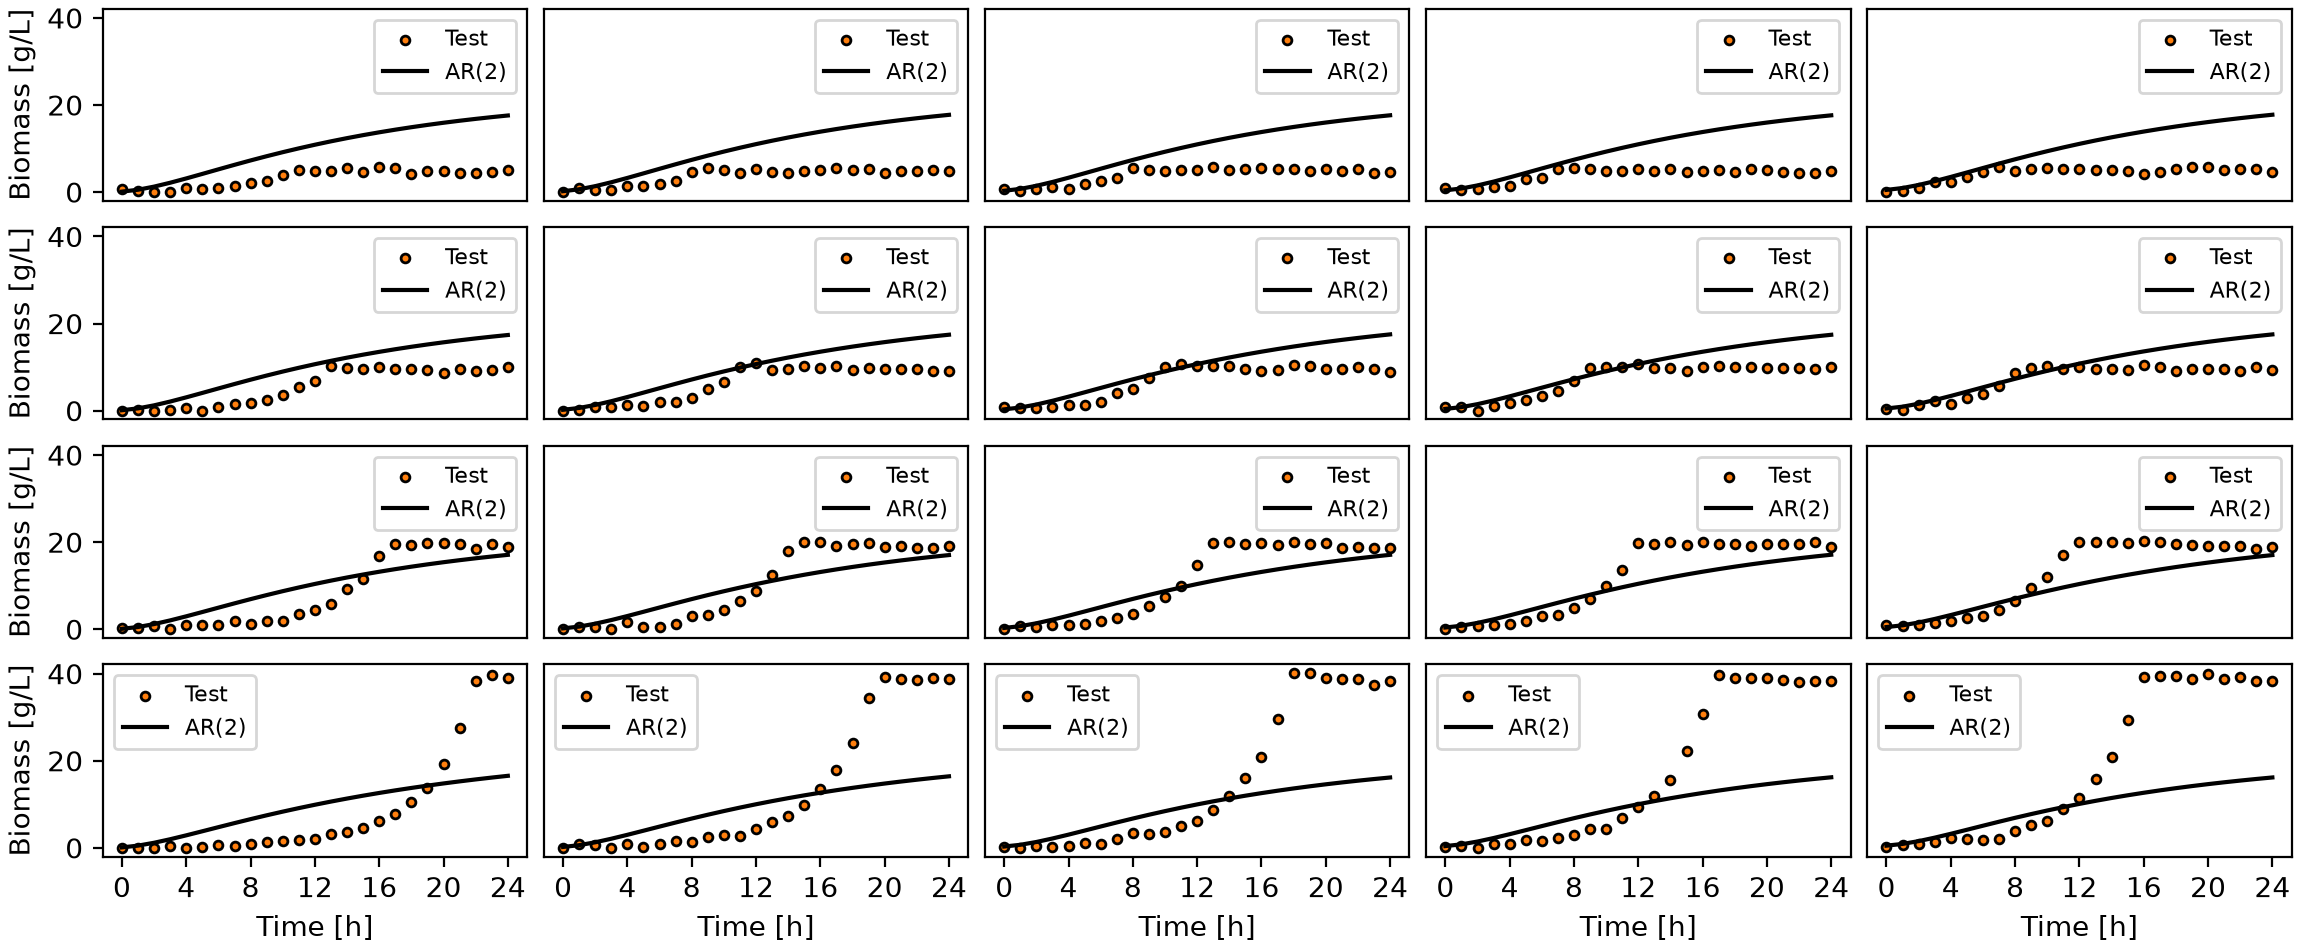
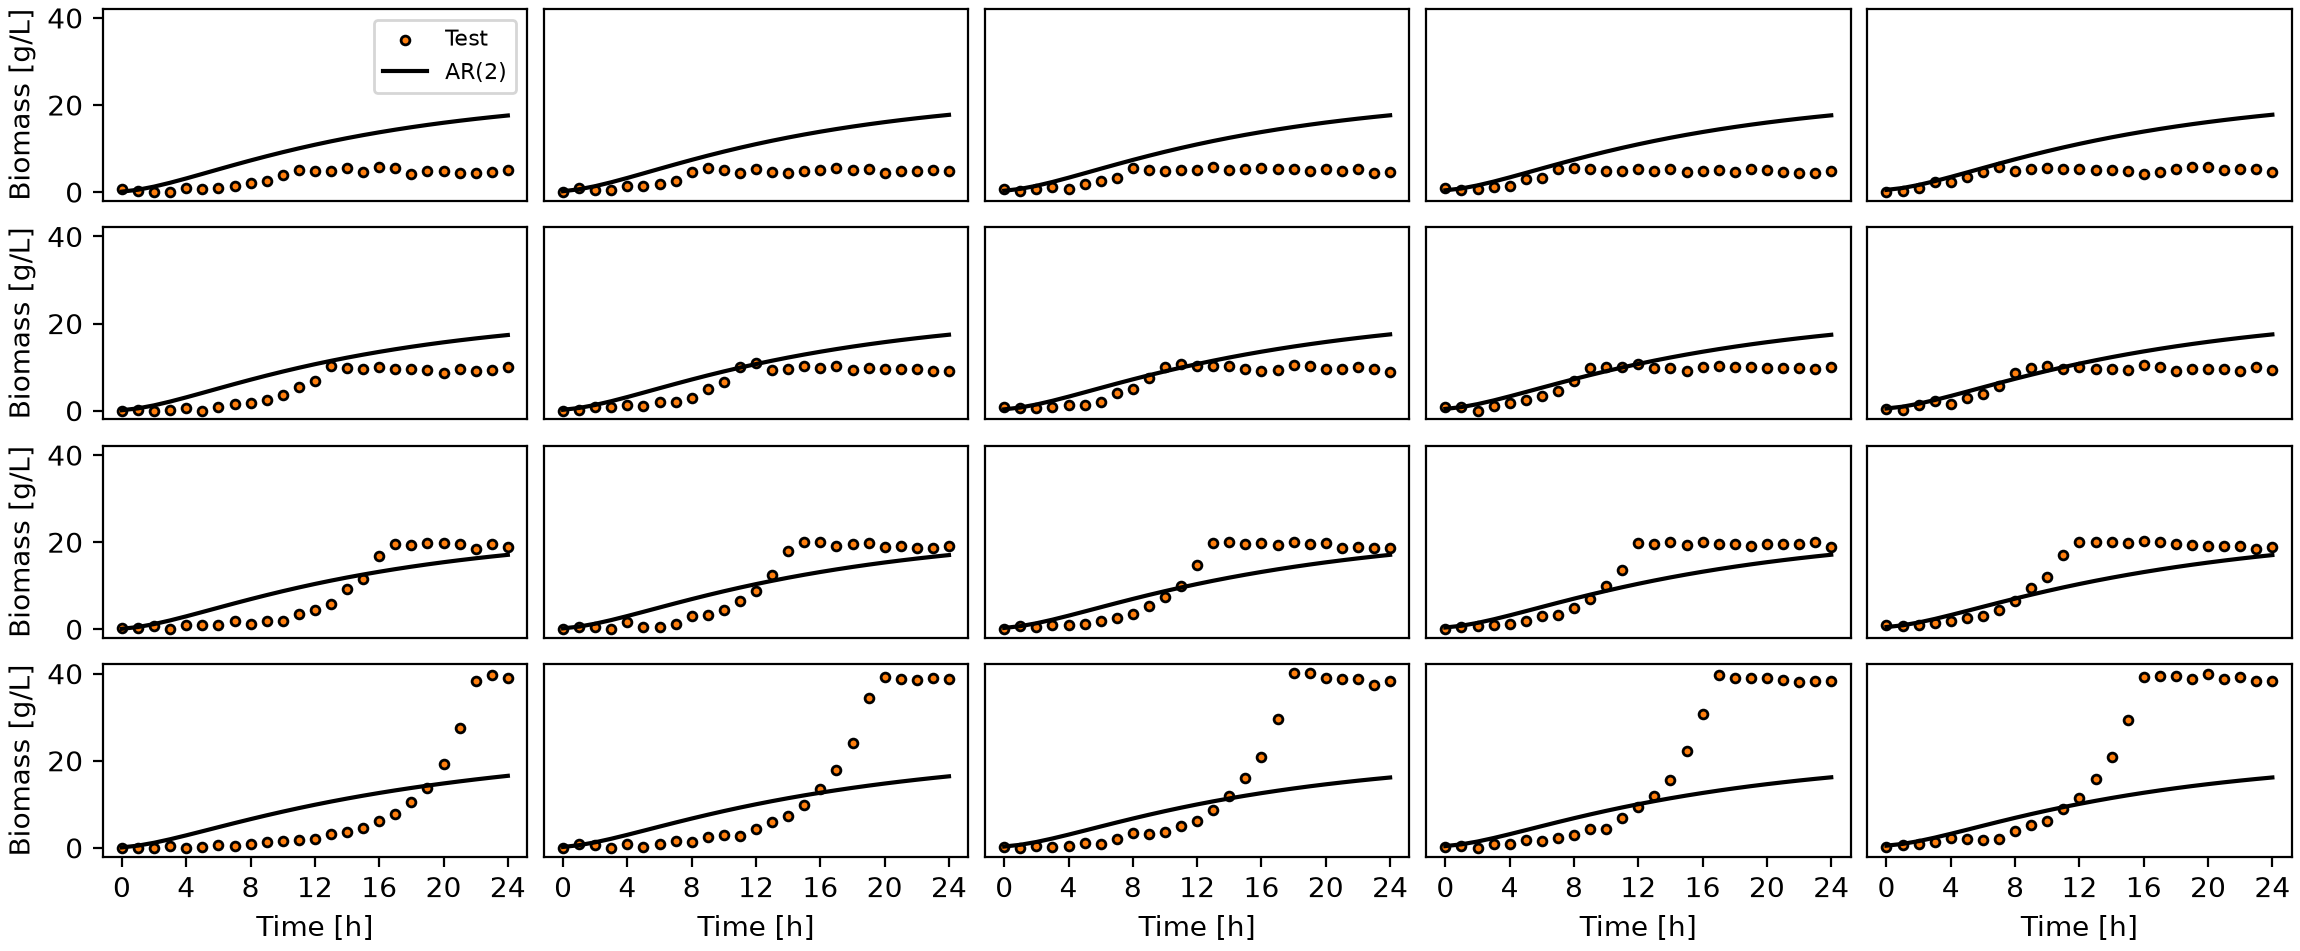
Added Unit 5 > Main 4

diff --git a/units/unit_05/main_04_forecast_uncertainty.py b/units/unit_05/main_04_forecast_uncertainty.py
@@ -1,0 +1,172 @@
+# ============================================================================
+#   Forecast Uncertainty
+# ============================================================================
+#
+#   * Future values cannot be predicted with complete certainty.
+#
+#   * In autoregressive models, forecast uncertainty generally increases
+#     as predictions extend further into the future because prediction
+#     errors can accumulate.
+#
+#   * Repeated simulations can be used to estimate prediction intervals,
+#     which provide a likely range for future values.
+#
+# ============================================================================
+
+import os
+
+import numpy as np
+import pandas as pd
+from matplotlib import pyplot as plt
+from matplotlib.ticker import MultipleLocator
+from sklearn.linear_model import LinearRegression
+from sklearn.pipeline import make_pipeline
+
+from units.unit_05.src.classes import StandardScalerAR
+from units.unit_05.src.functions import generate_x_lag_cur_ar
+
+# Create a random number generator
+rng = np.random.default_rng(0)
+
+# Number of simulations per forecast
+n_simulations = 200
+
+# Import dataset
+df = pd.read_csv(os.path.join("datasets", "dataset_cell_growth_time_series.csv"))
+
+# Extract the unique batch IDs
+batch_ids = np.unique(df.loc[:, "Batch ID"])
+
+# Select the time series feature of interest
+feature = "Biomass [g/L]"
+
+# Fraction of predictions to visualize
+prediction_interval = 0.95
+alpha = 1 - prediction_interval
+
+# Import information describing the initial conditions of each batch
+df_ic = pd.read_csv(os.path.join("datasets", "dataset_cell_growth_time_series_ic.csv"))
+
+# These will be used to organize the subplots
+ic_glucose = np.unique(df_ic.loc[:, "Glucose [g/L]"])
+ic_biomass = np.unique(df_ic.loc[:, "Biomass [g/L]"])
+
+nrows = ic_glucose.shape[0]
+ncols = ic_biomass.shape[0]
+
+# Evaluate autoregressive models with different numbers of lagged values.
+for p in range(1, 4):
+    fig, axes = plt.subplots(nrows, ncols, figsize=((29.21 / 2.54), (12.09 / 2.54)), dpi=200, layout="constrained")
+    y_min = 0
+    y_max = np.max(df.loc[:, feature])
+
+    # Leave-one-batch-out cross-validation
+    # One batch is excluded from training and used as the test dataset
+    for batch_id_test in batch_ids:
+        # Training batches contain all batches except the test batch
+        batch_ids_train = np.array([i for i in batch_ids if i != batch_id_test])
+
+        # Generate the lagged-value dataset used to train AR(p)
+        x_lag_train, x_cur_train, _ = generate_x_lag_cur_ar(p=p, batch_ids=batch_ids_train, df=df, feature=feature)
+
+        # Create and train the model
+        model = make_pipeline(StandardScalerAR(), LinearRegression())
+        model.fit(x_lag_train, x_cur_train)
+
+        # Calculate the residual errors (noise)
+        x_cur_train_predict = model.predict(x_lag_train)
+        x_cur_train_noise = x_cur_train_predict - x_cur_train
+
+        # Identify the initial condition corresponding to the test batch
+        idx_ic = df_ic.index[np.argmax(df_ic.loc[:, "Batch ID"] == batch_id_test)]
+        x_initial = df_ic.at[idx_ic, feature]
+
+        # Determine which subplot corresponds to the test batch initial conditions
+        i_ax = np.argmax(ic_glucose == df_ic.at[idx_ic, "Glucose [g/L]"])
+        j_ax = np.argmax(ic_biomass == df_ic.at[idx_ic, "Biomass [g/L]"])
+        ax = axes[i_ax, j_ax]
+
+        # Extract the data for the test batch
+        mask = df.loc[:, "Batch ID"] == batch_id_test
+        t_test = df.loc[mask, "Time [h]"].to_numpy()
+        x_test = df.loc[mask, feature].to_numpy()
+
+        # This time we will perform multiple simulations
+        x_forecasts = []
+        for simulation_id in range(n_simulations):
+            # Initialize the forecast using the known initial value
+            x_forecast = [x_initial]
+
+            # Generate the forecast recursively
+            # Each newly predicted value becomes available for future predictions
+            while len(x_forecast) < t_test.shape[0]:
+                # We need to reverse the list and then take the first p values
+                # This makes: x_lag[0] --> x_(t-1); x_lag[1] --> x_(t-2); etc.
+                x_lag = x_forecast[::-1].copy()
+                x_lag = x_lag[:p]
+
+                # At the start of the simulation there may be fewer than p available lagged values.
+                # If needed, repeat the most recent value until p lagged values are available.
+                while len(x_lag) < p:
+                    x_lag.append(x_lag[-1])
+
+                x_lag = np.array([x_lag])
+
+                # Get white noise from the residuals fo the training data
+                white_noise = rng.choice(x_cur_train_noise, size=x_lag.shape[0])
+
+                # Predict the next value with white noise
+                x_cur = model.predict(x_lag) + white_noise
+
+                # Prevent negative concentration predictions
+                x_cur = max(0, x_cur[0])
+
+                x_forecast.append(x_cur)
+
+            x_forecast = np.array(x_forecast)
+
+            # append this forecast to the list of simulated forecasts
+            x_forecasts.append(x_forecast)
+
+        x_forecasts = np.array(x_forecasts)
+
+        # Calculate the median and lower and upper prediction intervals at each time point
+        x_forecast_pi_lower = np.quantile(x_forecasts, q=alpha / 2, axis=0)
+        x_forecast_median = np.quantile(x_forecasts, q=0.5, axis=0)
+        x_forecast_pi_higher = np.quantile(x_forecasts, q=1 - alpha / 2, axis=0)
+
+        # Plot actual values, forecasts, and prediction intervals
+        ax.scatter(t_test, x_test, label="Test", s=10, color="tab:orange", edgecolors="black", zorder=3)
+        ax.plot(t_test, x_forecast_median, label=f"AR({p})", color="black", zorder=4)
+        ax.fill_between(t_test, x_forecast_pi_lower, x_forecast_pi_higher, label=f"{prediction_interval:.0%} PI",
+                        color="tab:blue", edgecolors="none", alpha=0.3, zorder=2)
+
+        y_max = max(y_max, np.max(x_test), np.max(x_forecast_pi_higher))
+
+        print(f"{p = :2d} | {batch_id_test = :4d}")
+
+    # Apply consistent axis limits to all subplots
+    y_range = y_max - y_min
+    y_buffer = 0.05 * y_range
+
+    for i in range(axes.shape[0]):
+        for j in range(axes.shape[1]):
+            axes[i, j].set_ylim(bottom=y_min - y_buffer, top=y_max + y_buffer)
+
+            if i == axes.shape[0] - 1:
+                axes[i, j].set_xlabel("Time [h]")
+                axes[i, j].xaxis.set_major_locator(MultipleLocator(4))
+
+            else:
+                axes[i, j].set_xticks([])
+
+            if j == 0:
+                axes[i, j].set_ylabel(feature)
+            else:
+                axes[i, j].set_yticks([])
+
+            if i == 0 and j == 0:
+                axes[i, j].legend(fontsize=8)
+
+    fig.savefig(os.path.join("figures", f"figure_04_p{p:02d}.png"))
+    plt.close(fig)

diff --git a/units/unit_05/main_03_white_noise_analysis.py b/units/unit_05/main_03_white_noise_analysis.py
@@ -44,16 +44,16 @@ batch_ids = np.unique(df.loc[:, "Batch ID"])
 # Select the time series feature of interest
 feature = "Biomass [g/L]"
 
-# Confidence level used to visualize uncertainty
-confidence_interval = 0.95
-alpha = 1 - confidence_interval
+# Fraction of predictions to visualize
+prediction_interval = 0.95
+alpha = 1 - prediction_interval
 
 # Define common x-axis limits
 x_left = np.min(df.loc[:, "Time [h]"]) - 1
 x_right = np.max(df.loc[:, "Time [h]"]) + 1
 
 # Evaluate autoregressive models with different numbers of lagged values.
-for p in range(1, 6):
+for p in range(1, 4):
 
     # Generate the lagged-value dataset used to train AR(p)
     x_lag, x_cur, t_cur = generate_x_lag_cur_ar(p=p, batch_ids=batch_ids, df=df, feature=feature)
@@ -74,8 +74,8 @@ for p in range(1, 6):
 
     # We will store the residual mean and confidence intervals at each time point
     noise_mean = []
-    noise_ci_upper = []
-    noise_ci_lower = []
+    noise_pi_upper = []
+    noise_pi_lower = []
 
     # Analyze the residual distribution at each time point
     for t in t_unique:
@@ -87,36 +87,33 @@ for p in range(1, 6):
         # Calculate the confidence interval using the Student t distribution
         q = alpha / 2
         dof = x_cur_noise_t.shape[0] - 1
-        ci_sd = stats.t.isf(q=q, df=dof)
+        pi_sd = stats.t.isf(q=q, df=dof)
 
         noise_mean.append(n_mean)
-        noise_ci_upper.append(n_mean + ci_sd * n_sd)
-        noise_ci_lower.append(n_mean - ci_sd * n_sd)
+        noise_pi_upper.append(n_mean + pi_sd * n_sd)
+        noise_pi_lower.append(n_mean - pi_sd * n_sd)
 
     noise_mean = np.array(noise_mean)
-    noise_ci_upper = np.array(noise_ci_upper)
-    noise_ci_lower = np.array(noise_ci_lower)
+    noise_pi_upper = np.array(noise_pi_upper)
+    noise_pi_lower = np.array(noise_pi_lower)
 
     # Determine the plotting range needed to display all residual statistics symmetrically about zero
     y_max = max(np.max(np.abs(noise_mean)),
-                np.max(np.abs(noise_ci_upper)),
-                np.max(np.abs(noise_ci_lower)),
+                np.max(np.abs(noise_pi_upper)),
+                np.max(np.abs(noise_pi_lower)),
                 np.max(np.abs(x_cur_noise)))
 
-    # =============================
-    #   PLOT
-    # =============================
     fig, ax = plt.subplots(1, 1, figsize=((14.39 / 2.54), (12.09 / 2.54)), dpi=200, layout="constrained")
 
     ax.scatter(t_cur, x_cur_noise, label="Noise", color="tab:orange", s=12, edgecolors="black", linewidth=0.5,
                alpha=0.7, zorder=3)
     ax.plot(t_unique, noise_mean, label="Mean", color="black", zorder=4)
-    ax.fill_between(t_unique, noise_ci_lower, noise_ci_upper, label=f"{confidence_interval:.0%} CI", color="tab:blue",
+    ax.fill_between(t_unique, noise_pi_lower, noise_pi_upper, label=f"{prediction_interval:.0%} PI", color="tab:blue",
                     edgecolors="none", alpha=0.3, zorder=2)
     ax.axhline(y=0, color="black", linestyle="-", linewidth=0.5, alpha=0.5, zorder=1)
 
     ax.set_xlabel("Time [h]", fontsize=14)
-    ax.set_ylabel(f"{feature} (Noise)", fontsize=14)
+    ax.set_ylabel(f"{feature} (Residuals)", fontsize=14)
     ax.tick_params(axis='both', which='major', labelsize=12)
     ax.legend(loc="upper left", fontsize=12)
 

diff --git a/units/unit_05/main_02_autoregressive_models.py b/units/unit_05/main_02_autoregressive_models.py
@@ -57,7 +57,7 @@ nrows = ic_glucose.shape[0]
 ncols = ic_biomass.shape[0]
 
 # Evaluate autoregressive models with different numbers of lagged values.
-for p in range(1, 6):
+for p in range(1, 4):
     fig, axes = plt.subplots(nrows, ncols, figsize=((29.21 / 2.54), (12.09 / 2.54)), dpi=200, layout="constrained")
     y_min = 0
     y_max = np.max(df.loc[:, feature])
@@ -120,7 +120,6 @@ for p in range(1, 6):
         # Plot actual values and forecasts
         ax.scatter(t_test, x_test, label="Test", s=10, color="tab:orange", edgecolors="black")
         ax.plot(t_test, x_forecast, label=f"AR({p})", color="black")
-        ax.legend(fontsize=8)
 
         y_max = max(y_max, np.max(x_forecast))
 
@@ -143,6 +142,9 @@ for p in range(1, 6):
                 axes[i, j].set_ylabel(feature)
             else:
                 axes[i, j].set_yticks([])
+
+            if i == 0 and j == 0:
+                axes[i, j].legend(fontsize=8)
 
     fig.savefig(os.path.join("figures", f"figure_02_p{p:02d}.png"))
     plt.close(fig)

diff --git a/README.md b/README.md
@@ -66,3 +66,4 @@ Lecture slides are available on Brightspace. This repository contains the code e
 1. [Lagged values](units/unit_05/main_01_lagged_values.py)
 2. [Autoregressive models (AR)](units/unit_05/main_02_autoregressive_models.py)
 3. [White noise analysis](units/unit_05/main_03_white_noise_analysis.py)
+4. [Forecast uncertainty](units/unit_05/main_04_forecast_uncertainty.py)
